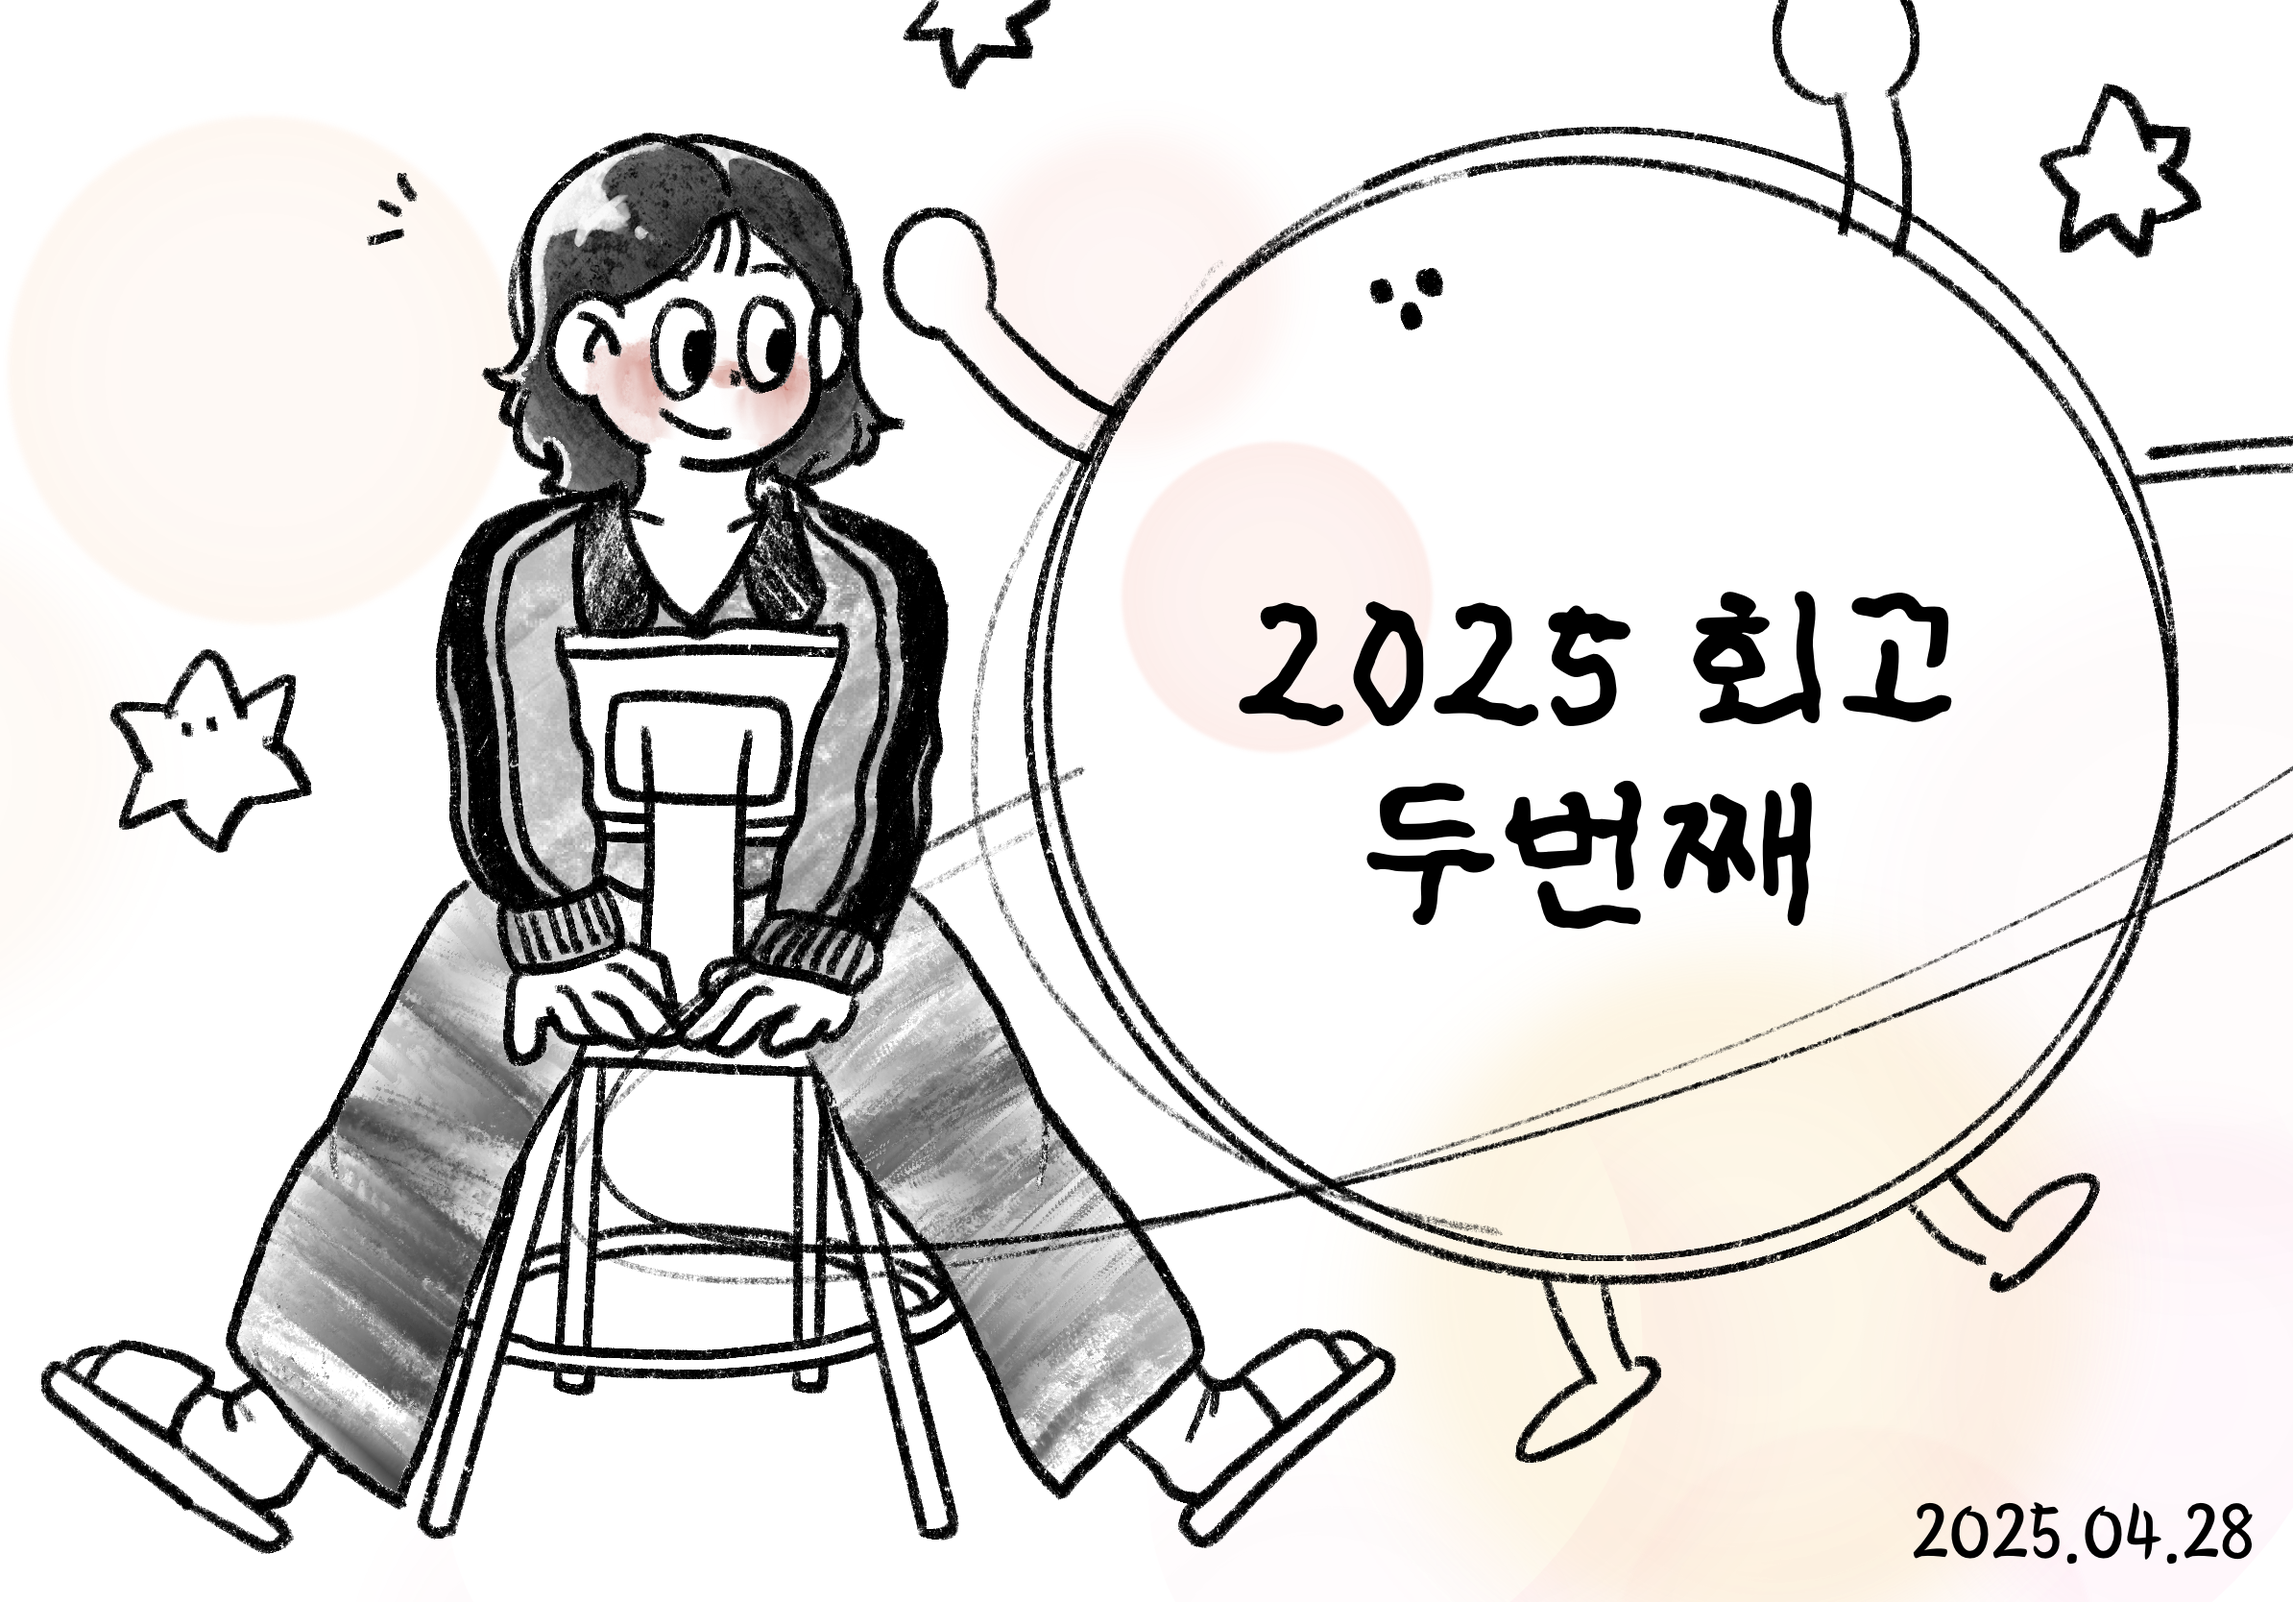
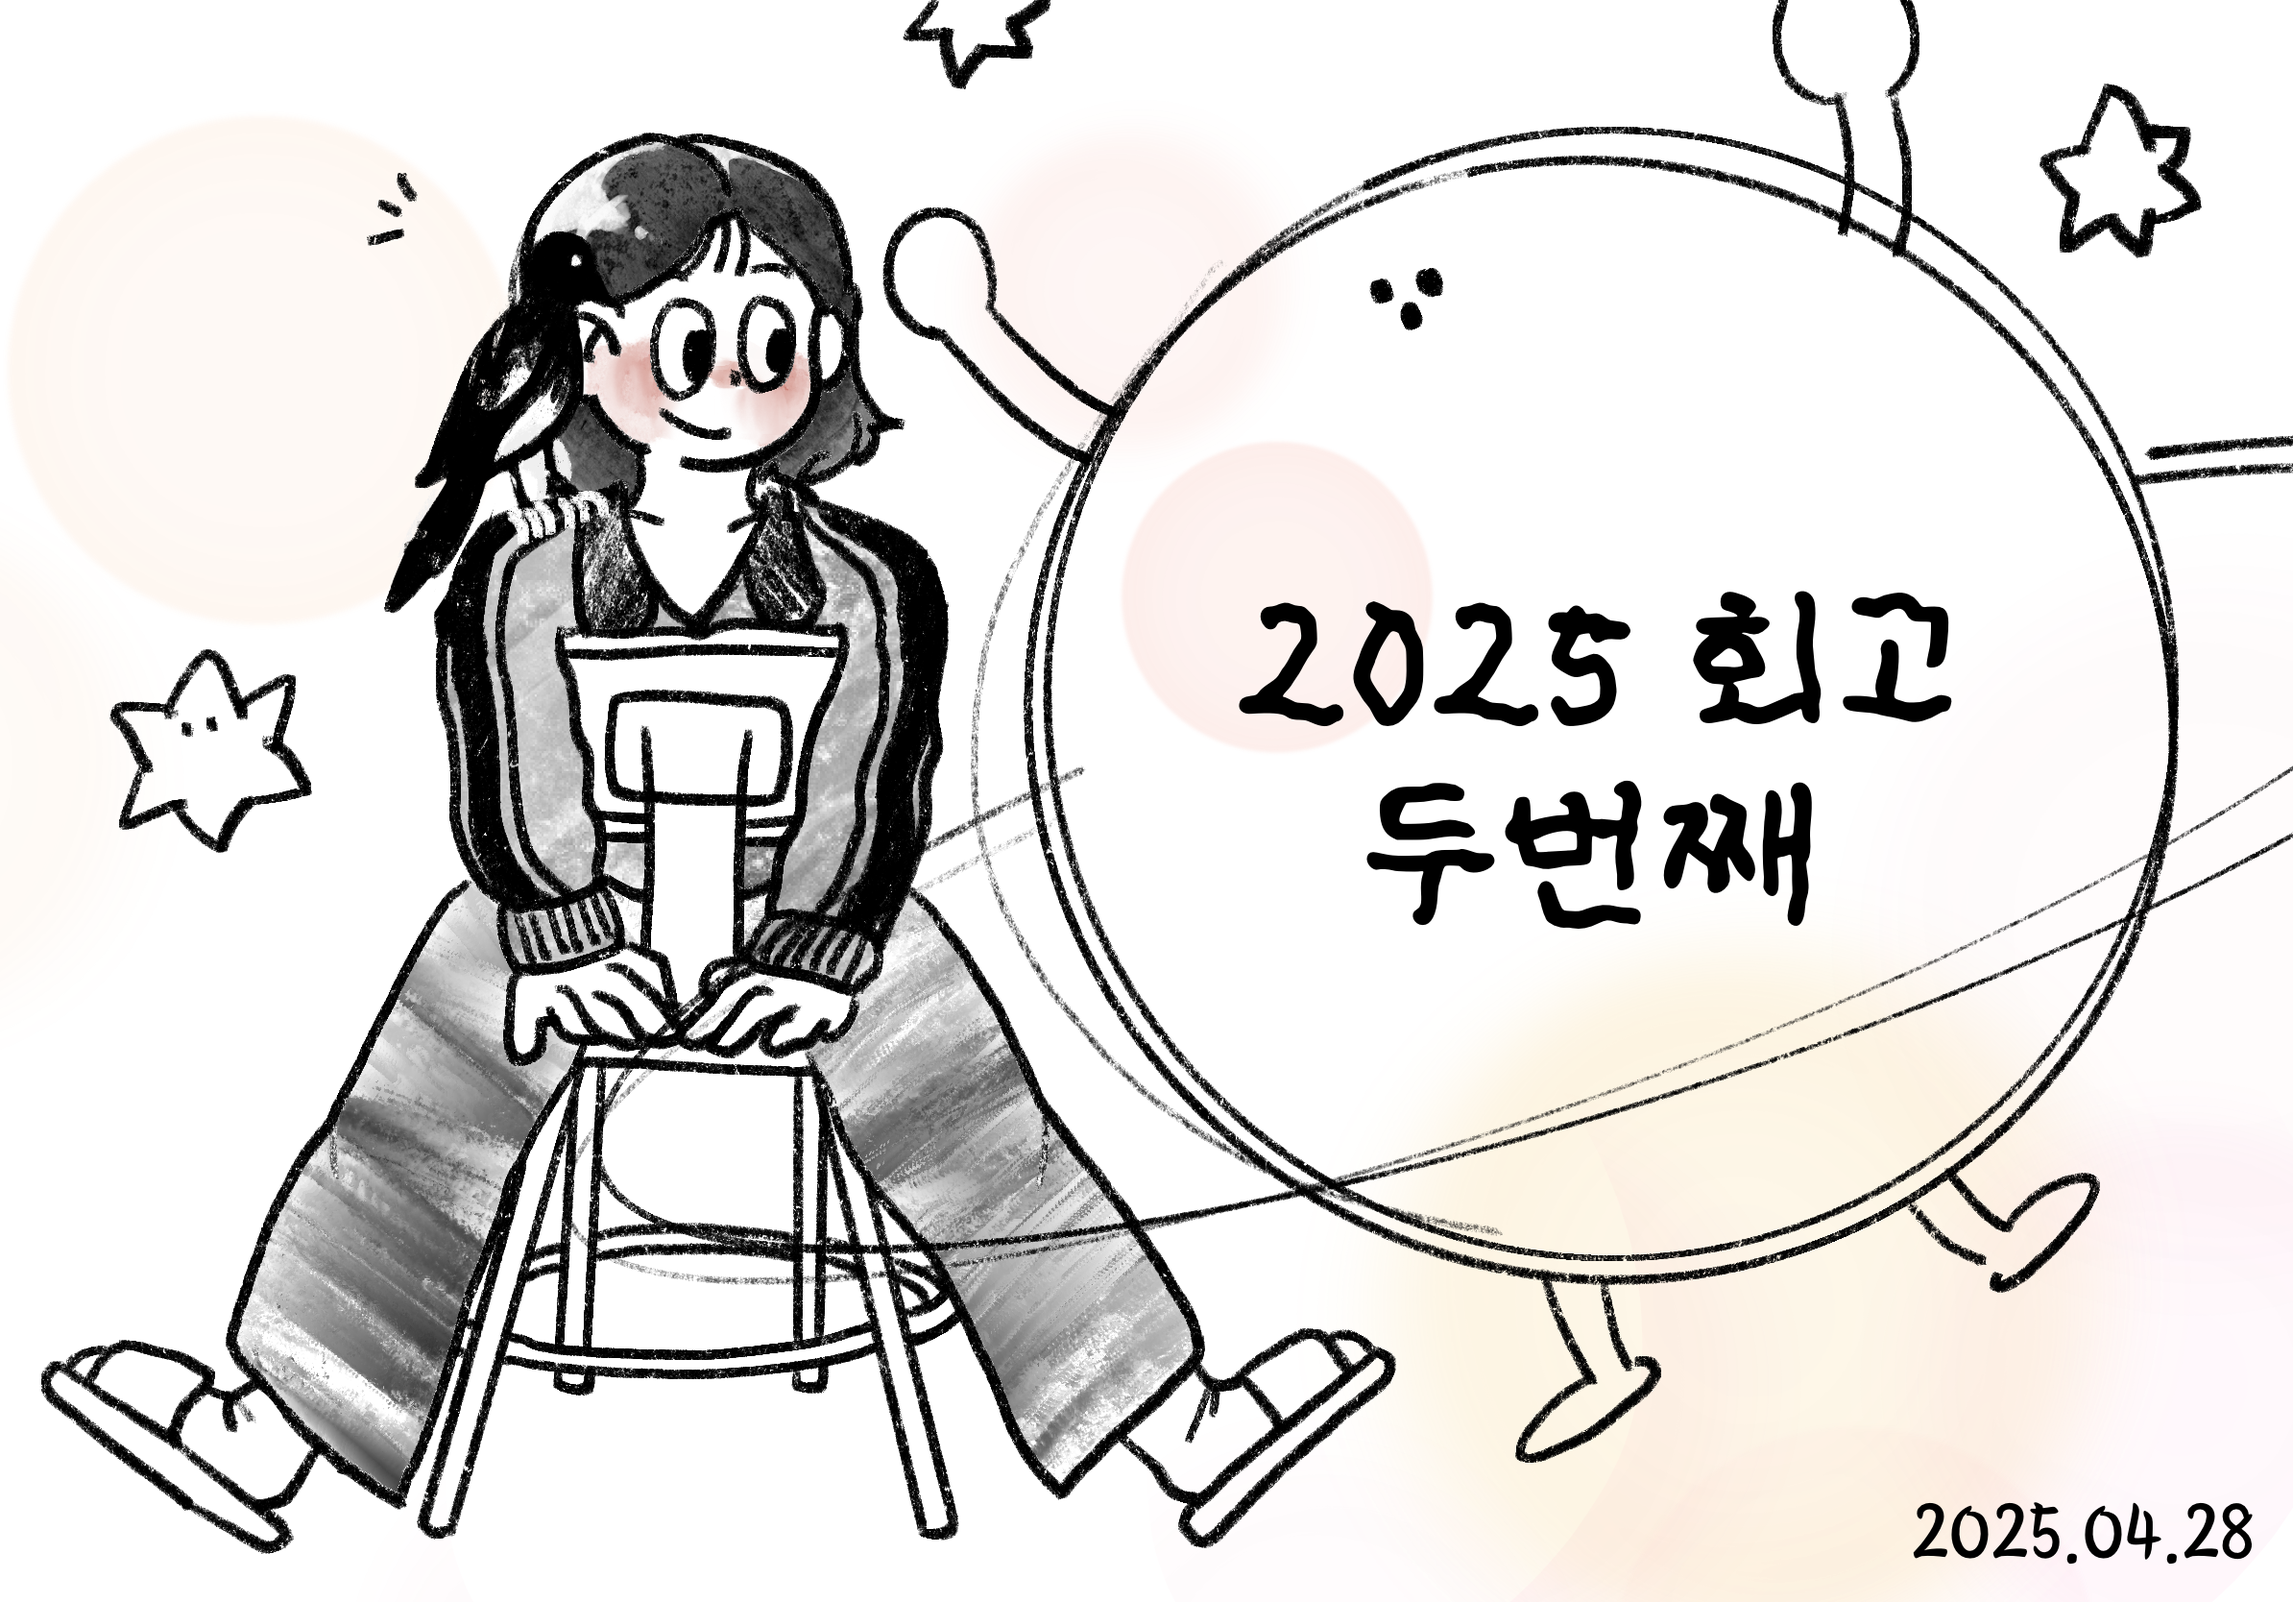
docs : reflection-02, 03 업로드

Changed region(s): [[0.1549, 0.1247, 0.2789, 0.3741]]

diff --git a/_posts/2025-04-28-reflection-02.md b/_posts/2025-04-28-reflection-02.md
@@ -91,3 +91,55 @@ image: assets/images/thumbnail/reflection-02.png
 행복하다는 말을 꺼내본게 너무 오래전 일 같다. 나는 정말 쉽게 행복에 전염되는 사람인데 그냥 하루의 일과 만을 해치우며 살아가는 느낌
 
 근데 막 불행한건 아냐. 걱정안해도 된다.
+
+<br/>
+
+(2025.04.30)
+
+## 그림 그리는 방법이요..🤔
+
+사실 내가 그리는 그림은 공상에 가깝다.
+
+다만 완전 창조의 의미라기보단 꿈에 조금 더 가까운 느낌?
+
+이를테면 현실에 있었던 순간들, 의복, 사람, 장소, 소품 등을 엮고 엮어서 무언가의 의미를 만들어내는거다.
+
+내가 그림을 좋아하는 이유 중 하나도 그림에는 작가의 시선이 담겨있기 때문이다. 그 무엇을 바라보는 마음, 기억하는 분위기, 어쩌면 순간의 향기까지도
+
+그러니까 그림은 작가의 필터가 씌워진 사진인 셈이다.
+
+---
+
+그리고 난 그림 그리는 방법을 모른다!
+
+미술을 배운게 아니라서 그냥 그리고싶은대로 그릴 뿐이라 ..
+
+다만 조금 오랫동안 그림을 그려오면서 생긴 버릇이자 팁을 좀 알려준다면 깊게 관찰을 하면 된다.
+
+내가 좋아하는 것 부터 시작하면 쉽다. 나의 경우는 곁에 있는 사람들, 좋아하는 음식, 자주가는 장소 .. 이런 것들이 나에겐 모두 재료(?)고 소재거리가 된다. ( 보통 갤러리에서 많이 찾는다. 그리고 주체가 나라면 더 쉬워진다. )
+
+뭔가 그리고 싶은 것을 찾았다면 왜 그 순간이 좋았는지, 내가 담고싶은 감정은 무엇인지도 같이 생각하면 된다.
+
+행복했는지, 속상했는지, 우울했는지, 따뜻했는지 이런 것들을 생각하다 보면 어느새 무엇을 표현하고 싶다는 형태가 구체화 된다.
+
+그리고 그린다 .....
+
+끝이다 ..
+
+---
+
+근데 진짜 관찰을 깊게 하면 된다.
+
+나는 보통 인물을 위주로 그림을 그리는데, 이유는 내가 좋아하는 사람들은 기억에 꽤 오래 남는다.
+
+좋아하는 사람들의 표정과 그때 무슨 옷을 입고 왔는지, 어떤 색이 잘 어울리는지. 어느 순간에 행복해하고 무엇을 좋아하는지. 이런것들을 종종 생각하는 것 같다
+
+이제보니 그림은 사랑의 표현 방식이였나봐
+
+![lovers](/assets/images/blog/2025-04-28-reflection-02/lovers.png)
+
+내게 사랑을 가르쳐준 사람들. 내 어휘력이 부족해서 사랑보다 더 좋은 단어를 못찾겠다. 말 그대로 lovers
+
+![doback](/assets/images/blog/2025-04-28-reflection-02/doback.png)
+
+이제는 이렇게 만나지 못하지만 한때 나의 웃음이던 사람들. 대학교 동기들인데 이사람들을 고등학교때 만났으면 어땟을까 하는 생각에 그려봤었다.

diff --git a/_posts/2025-04-28-reflection-03.md b/_posts/2025-04-28-reflection-03.md
@@ -1,0 +1,25 @@
+---
+layout: post
+title: "2025 회고 - 두번째 이야기"
+author: munkyeong
+categories: [reflection]
+image: assets/images/thumbnail/reflection-03.png
+---
+
+> 요약
+> <br/> 2025년도 5월 첫째주 회고 글입니다.
+> 이번주 동안에 들었던 생각들을 정리합니다.
+
+<br/>
+
+## 행복하시나요?
+
+(25.4.30)
+
+행복을 다시 의식적으로 찾아야 할 것 같다는 생각이 들었다.
+
+나는 원래 정말 쉽게 행복에 전염되는 사람인데 요새 행복했던 순간들이 잘 떠오르지 않는다.
+
+환경의 변화인지, 내면의 변화인지는 잘 모르겠지만.. 내가 오래 버틸 수 없는 감정에 머물고 있는 것 같아서 불안하다
+
+감사일기를 다시 적어볼까 하는 생각도 든다. 의식적으로 행복을 찾고, 또 감사하는 날들이 많아졌으면 좋겠다.
